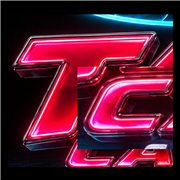
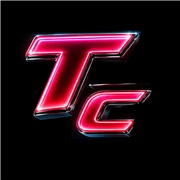
TC symbol: the real T and C cut from the Figma sign, placed as Carlos sketched

diff --git a/site/ride.html b/site/ride.html
@@ -23,11 +23,11 @@
 <link rel="preconnect" href="https://fonts.googleapis.com">
 <link rel="preconnect" href="https://fonts.gstatic.com" crossorigin>
 <link href="https://fonts.googleapis.com/css2?family=Oswald:wght@500;700&family=Great+Vibes&family=Inter:wght@400;500;600;700&display=swap" rel="stylesheet">
-<link rel="stylesheet" href="/assets/css/style.css?v=mw1u279e">
-<link rel="stylesheet" href="/assets/css/fx.css?v=mw1u279e">
-<link rel="stylesheet" href="/assets/css/app.css?v=mw1u279e">
-<link rel="stylesheet" href="/assets/css/members.css?v=mw1u279e">
-<link rel="stylesheet" href="/assets/css/light.css?v=mw1u279e">
+<link rel="stylesheet" href="/assets/css/style.css?v=mw1u5dvm">
+<link rel="stylesheet" href="/assets/css/fx.css?v=mw1u5dvm">
+<link rel="stylesheet" href="/assets/css/app.css?v=mw1u5dvm">
+<link rel="stylesheet" href="/assets/css/members.css?v=mw1u5dvm">
+<link rel="stylesheet" href="/assets/css/light.css?v=mw1u5dvm">
 <script>try{var q=new URLSearchParams(location.search).get('theme');if(q)localStorage.setItem('take_theme',q);if(localStorage.getItem('take_theme')==='light')document.documentElement.dataset.theme='light'}catch(e){}</script>
 <script type="application/ld+json">{"@context":"https://schema.org","@graph":[{"@type":"WebPage","@id":"https://take-canggu.pages.dev/ride","url":"https://take-canggu.pages.dev/ride","name":"Scooter Rental Canggu from Rp 85K a day | TAKE Scooter Rental Berawa","description":"Rent a Scoopy, Beat, Vario, NMAX, PCX, ADV or XMAX in Berawa, Canggu, from Rp 85K a day. Drivers for the airport, Ubud, Uluwatu and Mount Batur sunrise treks. Book online, confirm on WhatsApp.","about":{"@id":"https://take-canggu.pages.dev/ride#rental"},"inLanguage":"en"},{"@type":"AutoRental","@id":"https://take-canggu.pages.dev/ride#rental","name":"TAKE Scooter Rental","alternateName":"TAKE SCOOTER RENTAL","url":"https://take-canggu.pages.dev/ride","image":["https://take-canggu.pages.dev/assets/img/shop-side.jpg","https://take-canggu.pages.dev/assets/img/og-ride.jpg"],"telephone":["+6282240160894","+6282145954191","+6282191337592"],"address":{"@type":"PostalAddress","streetAddress":"Perum Prapta Canggu Asri Blok D No.1, Jl. Krisnantara 1, off Jl. Pantai Berawa","addressLocality":"Tibubeneng, Canggu","addressRegion":"Bali","addressCountry":"ID"},"geo":{"@type":"GeoCoordinates","latitude":-8.6481268,"longitude":115.1481513},"hasMap":"https://maps.google.com/?cid=2267207769960955668","openingHoursSpecification":{"@type":"OpeningHoursSpecification","dayOfWeek":["Monday","Tuesday","Wednesday","Thursday","Friday","Saturday","Sunday"],"opens":"07:00","closes":"20:00"},"priceRange":"Rp 85K a day and up","currenciesAccepted":"IDR","makesOffer":[{"@type":"Offer","name":"Honda Beat scooter rental","priceCurrency":"IDR","priceSpecification":{"@type":"UnitPriceSpecification","price":85000,"priceCurrency":"IDR","unitCode":"DAY","unitText":"per day"},"itemOffered":{"@type":"Product","name":"Honda Beat","description":"110cc automatic scooter"}},{"@type":"Offer","name":"Yamaha Gear scooter rental","priceCurrency":"IDR","priceSpecification":{"@type":"UnitPriceSpecification","price":85000,"priceCurrency":"IDR","unitCode":"DAY","unitText":"per day"},"itemOffered":{"@type":"Product","name":"Yamaha Gear","description":"125cc automatic scooter"}},{"@type":"Offer","name":"Honda Scoopy scooter rental","priceCurrency":"IDR","priceSpecification":{"@type":"UnitPriceSpecification","price":100000,"priceCurrency":"IDR","unitCode":"DAY","unitText":"per day"},"itemOffered":{"@type":"Product","name":"Honda Scoopy","description":"110cc automatic scooter"}},{"@type":"Offer","name":"Yamaha Fazzio scooter rental","priceCurrency":"IDR","priceSpecification":{"@type":"UnitPriceSpecification","price":100000,"priceCurrency":"IDR","unitCode":"DAY","unitText":"per day"},"itemOffered":{"@type":"Product","name":"Yamaha Fazzio","description":"125cc automatic scooter"}},{"@type":"Offer","name":"Honda Vario scooter rental","priceCurrency":"IDR","priceSpecification":{"@type":"UnitPriceSpecification","price":120000,"priceCurrency":"IDR","unitCode":"DAY","unitText":"per day"},"itemOffered":{"@type":"Product","name":"Honda Vario","description":"125cc automatic scooter"}},{"@type":"Offer","name":"Yamaha NMAX scooter rental","priceCurrency":"IDR","priceSpecification":{"@type":"UnitPriceSpecification","price":150000,"priceCurrency":"IDR","unitCode":"DAY","unitText":"per day"},"itemOffered":{"@type":"Product","name":"Yamaha NMAX","description":"155cc automatic scooter"}},{"@type":"Offer","name":"Honda PCX scooter rental","priceCurrency":"IDR","priceSpecification":{"@type":"UnitPriceSpecification","price":150000,"priceCurrency":"IDR","unitCode":"DAY","unitText":"per day"},"itemOffered":{"@type":"Product","name":"Honda PCX","description":"160cc automatic scooter"}},{"@type":"Offer","name":"Honda ADV scooter rental","priceCurrency":"IDR","priceSpecification":{"@type":"UnitPriceSpecification","price":175000,"priceCurrency":"IDR","unitCode":"DAY","unitText":"per day"},"itemOffered":{"@type":"Product","name":"Honda ADV","description":"160cc automatic scooter"}},{"@type":"Offer","name":"Yamaha XMAX scooter rental","priceCurrency":"IDR","priceSpecification":{"@type":"UnitPriceSpecification","price":300000,"priceCurrency":"IDR","unitCode":"DAY","unitText":"per day"},"itemOffered":{"@type":"Product","name":"Yamaha XMAX","description":"250cc automatic scooter"}}]},{"@type":"CafeOrCoffeeShop","@id":"https://take-canggu.pages.dev/#cafe","name":"TAKE Coffee & Eatery","alternateName":"Take Coffee Canggu","url":"https://take-canggu.pages.dev/","image":["https://take-canggu.pages.dev/assets/img/shop-front.jpg","https://take-canggu.pages.dev/assets/img/og-eat.jpg"],"telephone":"+6282191337592","address":{"@type":"PostalAddress","streetAddress":"Perum Prapta Canggu Asri Blok D No.1, Jl. Krisnantara 1, off Jl. Pantai Berawa","addressLocality":"Tibubeneng, Canggu","addressRegion":"Bali","addressCountry":"ID"},"geo":{"@type":"GeoCoordinates","latitude":-8.6481201,"longitude":115.1481354},"hasMap":"https://maps.google.com/?cid=11705024513808798293","openingHoursSpecification":{"@type":"OpeningHoursSpecification","dayOfWeek":["Monday","Tuesday","Wednesday","Thursday","Friday","Saturday","Sunday"],"opens":"07:00","closes":"20:00"},"servesCuisine":["Indonesian","Western","Coffee"],"priceRange":"Rp 6K to Rp 55K","currenciesAccepted":"IDR","hasMenu":{"@type":"Menu","name":"TAKE Coffee & Eatery menu","hasMenuSection":[{"@type":"MenuSection","name":"Breakfast","hasMenuItem":[{"@type":"MenuItem","name":"Easy Breakfast","offers":{"@type":"Offer","price":45000,"priceCurrency":"IDR"}},{"@type":"MenuItem","name":"Simple Breakfast","offers":{"@type":"Offer","price":50000,"priceCurrency":"IDR"}},{"@type":"MenuItem","name":"2 x 2 Breakfast","offers":{"@type":"Offer","price":25000,"priceCurrency":"IDR"}},{"@type":"MenuItem","name":"Fruit Platter","offers":{"@type":"Offer","price":40000,"priceCurrency":"IDR"}}]},{"@type":"MenuSection","name":"Local food","hasMenuItem":[{"@type":"MenuItem","name":"Nasi Goreng","offers":{"@type":"Offer","price":20000,"priceCurrency":"IDR"}},{"@type":"MenuItem","name":"Nasi Goreng Chicken","offers":{"@type":"Offer","price":25000,"priceCurrency":"IDR"}},{"@type":"MenuItem","name":"Mi Goreng","offers":{"@type":"Offer","price":20000,"priceCurrency":"IDR"}},{"@type":"MenuItem","name":"Mi Goreng Chicken","offers":{"@type":"Offer","price":25000,"priceCurrency":"IDR"}},{"@type":"MenuItem","name":"Sweet & Sour Chicken","offers":{"@type":"Offer","price":25000,"priceCurrency":"IDR"}},{"@type":"MenuItem","name":"Fuyung Hai","offers":{"@type":"Offer","price":20000,"priceCurrency":"IDR"}},{"@type":"MenuItem","name":"Cap Cay","offers":{"@type":"Offer","price":25000,"priceCurrency":"IDR"}},{"@type":"MenuItem","name":"Steamed Rice","offers":{"@type":"Offer","price":6000,"priceCurrency":"IDR"}}]},{"@type":"MenuSection","name":"Pizza","hasMenuItem":[{"@type":"MenuItem","name":"Meat Lover","offers":{"@type":"Offer","price":55000,"priceCurrency":"IDR"}},{"@type":"MenuItem","name":"Hawai","offers":{"@type":"Offer","price":50000,"priceCurrency":"IDR"}},{"@type":"MenuItem","name":"Vegetable","offers":{"@type":"Offer","price":45000,"priceCurrency":"IDR"}},{"@type":"MenuItem","name":"Margherita","offers":{"@type":"Offer","price":40000,"priceCurrency":"IDR"}}]},{"@type":"MenuSection","name":"Pasta","hasMenuItem":[{"@type":"MenuItem","name":"Bolognese","offers":{"@type":"Offer","price":45000,"priceCurrency":"IDR"}},{"@type":"MenuItem","name":"Carbonara","offers":{"@type":"Offer","price":50000,"priceCurrency":"IDR"}},{"@type":"MenuItem","name":"Aglio Olio","offers":{"@type":"Offer","price":40000,"priceCurrency":"IDR"}}]},{"@type":"MenuSection","name":"Small bites","hasMenuItem":[{"@type":"MenuItem","name":"French Fries","offers":{"@type":"Offer","price":20000,"priceCurrency":"IDR"}},{"@type":"MenuItem","name":"Chicken Nuggets","offers":{"@type":"Offer","price":20000,"priceCurrency":"IDR"}},{"@type":"MenuItem","name":"Grilled Sausage","offers":{"@type":"Offer","price":20000,"priceCurrency":"IDR"}},{"@type":"MenuItem","name":"Potato Wedges","offers":{"@type":"Offer","price":20000,"priceCurrency":"IDR"}},{"@type":"MenuItem","name":"Fried Tempeh","offers":{"@type":"Offer","price":20000,"priceCurrency":"IDR"}}]},{"@type":"MenuSection","name":"Coffee & drinks","hasMenuItem":[{"@type":"MenuItem","name":"Latte (hot or cold)","offers":{"@type":"Offer","price":20000,"priceCurrency":"IDR"}},{"@type":"MenuItem","name":"Cappuccino (hot or cold)","offers":{"@type":"Offer","price":20000,"priceCurrency":"IDR"}},{"@type":"MenuItem","name":"Bali Coffee","offers":{"@type":"Offer","price":10000,"priceCurrency":"IDR"}},{"@type":"MenuItem","name":"Nescafe","offers":{"@type":"Offer","price":10000,"priceCurrency":"IDR"}},{"@type":"MenuItem","name":"Tea (hot or cold)","offers":{"@type":"Offer","price":8000,"priceCurrency":"IDR"}},{"@type":"MenuItem","name":"Mineral Water","offers":{"@type":"Offer","price":8000,"priceCurrency":"IDR"}},{"@type":"MenuItem","name":"Sprite","offers":{"@type":"Offer","price":10000,"priceCurrency":"IDR"}},{"@type":"MenuItem","name":"Fanta","offers":{"@type":"Offer","price":10000,"priceCurrency":"IDR"}},{"@type":"MenuItem","name":"Coca Cola","offers":{"@type":"Offer","price":10000,"priceCurrency":"IDR"}}]},{"@type":"MenuSection","name":"Juices","hasMenuItem":[{"@type":"MenuItem","name":"Avocado Juice","offers":{"@type":"Offer","price":20000,"priceCurrency":"IDR"}},{"@type":"MenuItem","name":"Dragon Fruit Juice","offers":{"@type":"Offer","price":20000,"priceCurrency":"IDR"}},{"@type":"MenuItem","name":"Watermelon Juice","offers":{"@type":"Offer","price":15000,"priceCurrency":"IDR"}},{"@type":"MenuItem","name":"Pineapple Juice","offers":{"@type":"Offer","price":15000,"priceCurrency":"IDR"}},{"@type":"MenuItem","name":"Orange Juice","offers":{"@type":"Offer","price":15000,"priceCurrency":"IDR"}},{"@type":"MenuItem","name":"Young Coconut","offers":{"@type":"Offer","price":20000,"priceCurrency":"IDR"}},{"@type":"MenuItem","name":"Traditional Jamu","offers":{"@type":"Offer","price":35000,"priceCurrency":"IDR"}},{"@type":"MenuItem","name":"Natural Black Honey"}]},{"@type":"MenuSection","name":"Beer","hasMenuItem":[{"@type":"MenuItem","name":"Bintang Original","offers":{"@type":"Offer","price":35000,"priceCurrency":"IDR"}},{"@type":"MenuItem","name":"Bintang Radler","offers":{"@type":"Offer","price":35000,"priceCurrency":"IDR"}},{"@type":"MenuItem","name":"Bintang Crystal","offers":{"@type":"Offer","price":35000,"priceCurrency":"IDR"}}]}]}},{"@type":"FAQPage","mainEntity":[{"@type":"Question","name":"Where is TAKE in Canggu?","acceptedAnswer":{"@type":"Answer","text":"In Perum Prapta Canggu Asri, Blok D No.1, on Jl. Krisnantara 1, a quiet lane off Jalan Pantai Berawa in Tibubeneng. TAKE Coffee and TAKE Scooter Rental share the white house with the two signs."}},{"@type":"Question","name":"What are the opening hours?","acceptedAnswer":{"@type":"Answer","text":"Every day from 7am to 8pm, for the kitchen and the rental desk."}},{"@type":"Question","name":"Do you deliver food?","acceptedAnswer":{"@type":"Answer","text":"Yes. Order on this page and choose delivery, or WhatsApp the kitchen on 0821 9133 7592."}},{"@type":"Question","name":"How much is a scooter a day?","acceptedAnswer":{"@type":"Answer","text":"From Rp 85K a day: Honda Beat 85K, Yamaha Gear 85K, Honda Scoopy 100K, Yamaha Fazzio 100K, Honda Vario 120K, Yamaha NMAX 150K, Honda PCX 150K, Honda ADV 175K, Yamaha XMAX 300K."}},{"@type":"Question","name":"How do I book a scooter?","acceptedAnswer":{"@type":"Answer","text":"Choose a model and your dates on the scooter page and send the request. We confirm the bike and the price on WhatsApp, then you pick it up at the shop."}},{"@type":"Question","name":"How do I pay?","acceptedAnswer":{"@type":"Answer","text":"Online payment is coming soon. For now we confirm your scooter booking on WhatsApp and you pay at the shop; food is paid at the counter."}},{"@type":"Question","name":"How do TAKE Points work?","acceptedAnswer":{"@type":"Answer","text":"Sign in as a member with your email. You get 1 point for every Rp 10K you pay on food and scooter rentals, and 100 points take Rp 25K off your next order or rental."}},{"@type":"Question","name":"Do you have drivers and tours?","acceptedAnswer":{"@type":"Answer","text":"Yes: Airport transfer, Sanur, Ubud, Nusa Dua, Uluwatu, Tanah Lot, Candi Dasa, Padang Bay, Trekking Mount Batur, Trekking Mount Agung, Full day tour. Send a request with the date and pick-up place."}}]}]}</script>
 </head>
@@ -339,15 +339,15 @@
   <a class="chat-human" id="chatHuman" href="https://wa.me/6282240160894" target="_blank" rel="noopener"><svg viewBox="0 0 24 24" aria-hidden="true"><path d="M12 3C6.9 3 3 6.6 3 11.1c0 2.5 1.2 4.7 3.2 6.2L5.5 21l3.9-2.1c.8.2 1.7.3 2.6.3 5.1 0 9-3.6 9-8.1S17.1 3 12 3Z" fill="none" stroke="currentColor" stroke-width="1.8" stroke-linejoin="round"/></svg><span>Talk to a person on WhatsApp</span></a>
 </div>
 <button class="cart-fab only-eat" id="cartFab" type="button" hidden>Order <b id="cartCount">0</b> · <span id="cartTotal"></span></button>
-<script src="/assets/js/data.js?v=mw1u279e"></script>
-<script src="/assets/js/main.js?v=mw1u279e"></script>
-<script src="/assets/js/member.js?v=mw1u279e"></script>
-<script src="/assets/js/book.js?v=mw1u279e"></script>
-<script src="/assets/js/chat.js?v=mw1u279e"></script>
-<script src="/assets/js/zoom.js?v=mw1u279e"></script>
-<script src="/assets/js/theme.js?v=mw1u279e"></script>
+<script src="/assets/js/data.js?v=mw1u5dvm"></script>
+<script src="/assets/js/main.js?v=mw1u5dvm"></script>
+<script src="/assets/js/member.js?v=mw1u5dvm"></script>
+<script src="/assets/js/book.js?v=mw1u5dvm"></script>
+<script src="/assets/js/chat.js?v=mw1u5dvm"></script>
+<script src="/assets/js/zoom.js?v=mw1u5dvm"></script>
+<script src="/assets/js/theme.js?v=mw1u5dvm"></script>
 <script src="/i18n.js" defer></script>
-<script src="/assets/js/space.js?v=mw1u279e"></script>
-<script src="/assets/js/fx.js?v=mw1u279e"></script>
+<script src="/assets/js/space.js?v=mw1u5dvm"></script>
+<script src="/assets/js/fx.js?v=mw1u5dvm"></script>
 </body>
 </html>

diff --git a/site/index.html b/site/index.html
@@ -23,11 +23,11 @@
 <link rel="preconnect" href="https://fonts.googleapis.com">
 <link rel="preconnect" href="https://fonts.gstatic.com" crossorigin>
 <link href="https://fonts.googleapis.com/css2?family=Oswald:wght@500;700&family=Great+Vibes&family=Inter:wght@400;500;600;700&display=swap" rel="stylesheet">
-<link rel="stylesheet" href="/assets/css/style.css?v=mw1u279e">
-<link rel="stylesheet" href="/assets/css/fx.css?v=mw1u279e">
-<link rel="stylesheet" href="/assets/css/app.css?v=mw1u279e">
-<link rel="stylesheet" href="/assets/css/members.css?v=mw1u279e">
-<link rel="stylesheet" href="/assets/css/light.css?v=mw1u279e">
+<link rel="stylesheet" href="/assets/css/style.css?v=mw1u5dvm">
+<link rel="stylesheet" href="/assets/css/fx.css?v=mw1u5dvm">
+<link rel="stylesheet" href="/assets/css/app.css?v=mw1u5dvm">
+<link rel="stylesheet" href="/assets/css/members.css?v=mw1u5dvm">
+<link rel="stylesheet" href="/assets/css/light.css?v=mw1u5dvm">
 <script>try{var q=new URLSearchParams(location.search).get('theme');if(q)localStorage.setItem('take_theme',q);if(localStorage.getItem('take_theme')==='light')document.documentElement.dataset.theme='light'}catch(e){}</script>
 <script type="application/ld+json">{"@context":"https://schema.org","@graph":[{"@type":"WebPage","@id":"https://take-canggu.pages.dev/","url":"https://take-canggu.pages.dev/","name":"TAKE Coffee Canggu | Cafe & Restaurant in Berawa, Bali","description":"TAKE Coffee & Eatery on Jl. Pantai Berawa, Canggu: coffee, nasi goreng and mi goreng from Rp 20K, pizza, pasta, breakfasts, coffee and fresh juice. Eat in, pick up or order delivery. Open every day, 7am to 8pm.","about":{"@id":"https://take-canggu.pages.dev/#cafe"},"inLanguage":"en"},{"@type":"CafeOrCoffeeShop","@id":"https://take-canggu.pages.dev/#cafe","name":"TAKE Coffee & Eatery","alternateName":"Take Coffee Canggu","url":"https://take-canggu.pages.dev/","image":["https://take-canggu.pages.dev/assets/img/shop-front.jpg","https://take-canggu.pages.dev/assets/img/og-eat.jpg"],"telephone":"+6282191337592","address":{"@type":"PostalAddress","streetAddress":"Perum Prapta Canggu Asri Blok D No.1, Jl. Krisnantara 1, off Jl. Pantai Berawa","addressLocality":"Tibubeneng, Canggu","addressRegion":"Bali","addressCountry":"ID"},"geo":{"@type":"GeoCoordinates","latitude":-8.6481201,"longitude":115.1481354},"hasMap":"https://maps.google.com/?cid=11705024513808798293","openingHoursSpecification":{"@type":"OpeningHoursSpecification","dayOfWeek":["Monday","Tuesday","Wednesday","Thursday","Friday","Saturday","Sunday"],"opens":"07:00","closes":"20:00"},"servesCuisine":["Indonesian","Western","Coffee"],"priceRange":"Rp 6K to Rp 55K","currenciesAccepted":"IDR","hasMenu":{"@type":"Menu","name":"TAKE Coffee & Eatery menu","hasMenuSection":[{"@type":"MenuSection","name":"Breakfast","hasMenuItem":[{"@type":"MenuItem","name":"Easy Breakfast","offers":{"@type":"Offer","price":45000,"priceCurrency":"IDR"}},{"@type":"MenuItem","name":"Simple Breakfast","offers":{"@type":"Offer","price":50000,"priceCurrency":"IDR"}},{"@type":"MenuItem","name":"2 x 2 Breakfast","offers":{"@type":"Offer","price":25000,"priceCurrency":"IDR"}},{"@type":"MenuItem","name":"Fruit Platter","offers":{"@type":"Offer","price":40000,"priceCurrency":"IDR"}}]},{"@type":"MenuSection","name":"Local food","hasMenuItem":[{"@type":"MenuItem","name":"Nasi Goreng","offers":{"@type":"Offer","price":20000,"priceCurrency":"IDR"}},{"@type":"MenuItem","name":"Nasi Goreng Chicken","offers":{"@type":"Offer","price":25000,"priceCurrency":"IDR"}},{"@type":"MenuItem","name":"Mi Goreng","offers":{"@type":"Offer","price":20000,"priceCurrency":"IDR"}},{"@type":"MenuItem","name":"Mi Goreng Chicken","offers":{"@type":"Offer","price":25000,"priceCurrency":"IDR"}},{"@type":"MenuItem","name":"Sweet & Sour Chicken","offers":{"@type":"Offer","price":25000,"priceCurrency":"IDR"}},{"@type":"MenuItem","name":"Fuyung Hai","offers":{"@type":"Offer","price":20000,"priceCurrency":"IDR"}},{"@type":"MenuItem","name":"Cap Cay","offers":{"@type":"Offer","price":25000,"priceCurrency":"IDR"}},{"@type":"MenuItem","name":"Steamed Rice","offers":{"@type":"Offer","price":6000,"priceCurrency":"IDR"}}]},{"@type":"MenuSection","name":"Pizza","hasMenuItem":[{"@type":"MenuItem","name":"Meat Lover","offers":{"@type":"Offer","price":55000,"priceCurrency":"IDR"}},{"@type":"MenuItem","name":"Hawai","offers":{"@type":"Offer","price":50000,"priceCurrency":"IDR"}},{"@type":"MenuItem","name":"Vegetable","offers":{"@type":"Offer","price":45000,"priceCurrency":"IDR"}},{"@type":"MenuItem","name":"Margherita","offers":{"@type":"Offer","price":40000,"priceCurrency":"IDR"}}]},{"@type":"MenuSection","name":"Pasta","hasMenuItem":[{"@type":"MenuItem","name":"Bolognese","offers":{"@type":"Offer","price":45000,"priceCurrency":"IDR"}},{"@type":"MenuItem","name":"Carbonara","offers":{"@type":"Offer","price":50000,"priceCurrency":"IDR"}},{"@type":"MenuItem","name":"Aglio Olio","offers":{"@type":"Offer","price":40000,"priceCurrency":"IDR"}}]},{"@type":"MenuSection","name":"Small bites","hasMenuItem":[{"@type":"MenuItem","name":"French Fries","offers":{"@type":"Offer","price":20000,"priceCurrency":"IDR"}},{"@type":"MenuItem","name":"Chicken Nuggets","offers":{"@type":"Offer","price":20000,"priceCurrency":"IDR"}},{"@type":"MenuItem","name":"Grilled Sausage","offers":{"@type":"Offer","price":20000,"priceCurrency":"IDR"}},{"@type":"MenuItem","name":"Potato Wedges","offers":{"@type":"Offer","price":20000,"priceCurrency":"IDR"}},{"@type":"MenuItem","name":"Fried Tempeh","offers":{"@type":"Offer","price":20000,"priceCurrency":"IDR"}}]},{"@type":"MenuSection","name":"Coffee & drinks","hasMenuItem":[{"@type":"MenuItem","name":"Latte (hot or cold)","offers":{"@type":"Offer","price":20000,"priceCurrency":"IDR"}},{"@type":"MenuItem","name":"Cappuccino (hot or cold)","offers":{"@type":"Offer","price":20000,"priceCurrency":"IDR"}},{"@type":"MenuItem","name":"Bali Coffee","offers":{"@type":"Offer","price":10000,"priceCurrency":"IDR"}},{"@type":"MenuItem","name":"Nescafe","offers":{"@type":"Offer","price":10000,"priceCurrency":"IDR"}},{"@type":"MenuItem","name":"Tea (hot or cold)","offers":{"@type":"Offer","price":8000,"priceCurrency":"IDR"}},{"@type":"MenuItem","name":"Mineral Water","offers":{"@type":"Offer","price":8000,"priceCurrency":"IDR"}},{"@type":"MenuItem","name":"Sprite","offers":{"@type":"Offer","price":10000,"priceCurrency":"IDR"}},{"@type":"MenuItem","name":"Fanta","offers":{"@type":"Offer","price":10000,"priceCurrency":"IDR"}},{"@type":"MenuItem","name":"Coca Cola","offers":{"@type":"Offer","price":10000,"priceCurrency":"IDR"}}]},{"@type":"MenuSection","name":"Juices","hasMenuItem":[{"@type":"MenuItem","name":"Avocado Juice","offers":{"@type":"Offer","price":20000,"priceCurrency":"IDR"}},{"@type":"MenuItem","name":"Dragon Fruit Juice","offers":{"@type":"Offer","price":20000,"priceCurrency":"IDR"}},{"@type":"MenuItem","name":"Watermelon Juice","offers":{"@type":"Offer","price":15000,"priceCurrency":"IDR"}},{"@type":"MenuItem","name":"Pineapple Juice","offers":{"@type":"Offer","price":15000,"priceCurrency":"IDR"}},{"@type":"MenuItem","name":"Orange Juice","offers":{"@type":"Offer","price":15000,"priceCurrency":"IDR"}},{"@type":"MenuItem","name":"Young Coconut","offers":{"@type":"Offer","price":20000,"priceCurrency":"IDR"}},{"@type":"MenuItem","name":"Traditional Jamu","offers":{"@type":"Offer","price":35000,"priceCurrency":"IDR"}},{"@type":"MenuItem","name":"Natural Black Honey"}]},{"@type":"MenuSection","name":"Beer","hasMenuItem":[{"@type":"MenuItem","name":"Bintang Original","offers":{"@type":"Offer","price":35000,"priceCurrency":"IDR"}},{"@type":"MenuItem","name":"Bintang Radler","offers":{"@type":"Offer","price":35000,"priceCurrency":"IDR"}},{"@type":"MenuItem","name":"Bintang Crystal","offers":{"@type":"Offer","price":35000,"priceCurrency":"IDR"}}]}]}},{"@type":"AutoRental","@id":"https://take-canggu.pages.dev/ride#rental","name":"TAKE Scooter Rental","alternateName":"TAKE SCOOTER RENTAL","url":"https://take-canggu.pages.dev/ride","image":["https://take-canggu.pages.dev/assets/img/shop-side.jpg","https://take-canggu.pages.dev/assets/img/og-ride.jpg"],"telephone":["+6282240160894","+6282145954191","+6282191337592"],"address":{"@type":"PostalAddress","streetAddress":"Perum Prapta Canggu Asri Blok D No.1, Jl. Krisnantara 1, off Jl. Pantai Berawa","addressLocality":"Tibubeneng, Canggu","addressRegion":"Bali","addressCountry":"ID"},"geo":{"@type":"GeoCoordinates","latitude":-8.6481268,"longitude":115.1481513},"hasMap":"https://maps.google.com/?cid=2267207769960955668","openingHoursSpecification":{"@type":"OpeningHoursSpecification","dayOfWeek":["Monday","Tuesday","Wednesday","Thursday","Friday","Saturday","Sunday"],"opens":"07:00","closes":"20:00"},"priceRange":"Rp 85K a day and up","currenciesAccepted":"IDR","makesOffer":[{"@type":"Offer","name":"Honda Beat scooter rental","priceCurrency":"IDR","priceSpecification":{"@type":"UnitPriceSpecification","price":85000,"priceCurrency":"IDR","unitCode":"DAY","unitText":"per day"},"itemOffered":{"@type":"Product","name":"Honda Beat","description":"110cc automatic scooter"}},{"@type":"Offer","name":"Yamaha Gear scooter rental","priceCurrency":"IDR","priceSpecification":{"@type":"UnitPriceSpecification","price":85000,"priceCurrency":"IDR","unitCode":"DAY","unitText":"per day"},"itemOffered":{"@type":"Product","name":"Yamaha Gear","description":"125cc automatic scooter"}},{"@type":"Offer","name":"Honda Scoopy scooter rental","priceCurrency":"IDR","priceSpecification":{"@type":"UnitPriceSpecification","price":100000,"priceCurrency":"IDR","unitCode":"DAY","unitText":"per day"},"itemOffered":{"@type":"Product","name":"Honda Scoopy","description":"110cc automatic scooter"}},{"@type":"Offer","name":"Yamaha Fazzio scooter rental","priceCurrency":"IDR","priceSpecification":{"@type":"UnitPriceSpecification","price":100000,"priceCurrency":"IDR","unitCode":"DAY","unitText":"per day"},"itemOffered":{"@type":"Product","name":"Yamaha Fazzio","description":"125cc automatic scooter"}},{"@type":"Offer","name":"Honda Vario scooter rental","priceCurrency":"IDR","priceSpecification":{"@type":"UnitPriceSpecification","price":120000,"priceCurrency":"IDR","unitCode":"DAY","unitText":"per day"},"itemOffered":{"@type":"Product","name":"Honda Vario","description":"125cc automatic scooter"}},{"@type":"Offer","name":"Yamaha NMAX scooter rental","priceCurrency":"IDR","priceSpecification":{"@type":"UnitPriceSpecification","price":150000,"priceCurrency":"IDR","unitCode":"DAY","unitText":"per day"},"itemOffered":{"@type":"Product","name":"Yamaha NMAX","description":"155cc automatic scooter"}},{"@type":"Offer","name":"Honda PCX scooter rental","priceCurrency":"IDR","priceSpecification":{"@type":"UnitPriceSpecification","price":150000,"priceCurrency":"IDR","unitCode":"DAY","unitText":"per day"},"itemOffered":{"@type":"Product","name":"Honda PCX","description":"160cc automatic scooter"}},{"@type":"Offer","name":"Honda ADV scooter rental","priceCurrency":"IDR","priceSpecification":{"@type":"UnitPriceSpecification","price":175000,"priceCurrency":"IDR","unitCode":"DAY","unitText":"per day"},"itemOffered":{"@type":"Product","name":"Honda ADV","description":"160cc automatic scooter"}},{"@type":"Offer","name":"Yamaha XMAX scooter rental","priceCurrency":"IDR","priceSpecification":{"@type":"UnitPriceSpecification","price":300000,"priceCurrency":"IDR","unitCode":"DAY","unitText":"per day"},"itemOffered":{"@type":"Product","name":"Yamaha XMAX","description":"250cc automatic scooter"}}]},{"@type":"FAQPage","mainEntity":[{"@type":"Question","name":"Where is TAKE in Canggu?","acceptedAnswer":{"@type":"Answer","text":"In Perum Prapta Canggu Asri, Blok D No.1, on Jl. Krisnantara 1, a quiet lane off Jalan Pantai Berawa in Tibubeneng. TAKE Coffee and TAKE Scooter Rental share the white house with the two signs."}},{"@type":"Question","name":"What are the opening hours?","acceptedAnswer":{"@type":"Answer","text":"Every day from 7am to 8pm, for the kitchen and the rental desk."}},{"@type":"Question","name":"Do you deliver food?","acceptedAnswer":{"@type":"Answer","text":"Yes. Order on this page and choose delivery, or WhatsApp the kitchen on 0821 9133 7592."}},{"@type":"Question","name":"How much is a scooter a day?","acceptedAnswer":{"@type":"Answer","text":"From Rp 85K a day: Honda Beat 85K, Yamaha Gear 85K, Honda Scoopy 100K, Yamaha Fazzio 100K, Honda Vario 120K, Yamaha NMAX 150K, Honda PCX 150K, Honda ADV 175K, Yamaha XMAX 300K."}},{"@type":"Question","name":"How do I book a scooter?","acceptedAnswer":{"@type":"Answer","text":"Choose a model and your dates on the scooter page and send the request. We confirm the bike and the price on WhatsApp, then you pick it up at the shop."}},{"@type":"Question","name":"How do I pay?","acceptedAnswer":{"@type":"Answer","text":"Online payment is coming soon. For now we confirm your scooter booking on WhatsApp and you pay at the shop; food is paid at the counter."}},{"@type":"Question","name":"How do TAKE Points work?","acceptedAnswer":{"@type":"Answer","text":"Sign in as a member with your email. You get 1 point for every Rp 10K you pay on food and scooter rentals, and 100 points take Rp 25K off your next order or rental."}},{"@type":"Question","name":"Do you have drivers and tours?","acceptedAnswer":{"@type":"Answer","text":"Yes: Airport transfer, Sanur, Ubud, Nusa Dua, Uluwatu, Tanah Lot, Candi Dasa, Padang Bay, Trekking Mount Batur, Trekking Mount Agung, Full day tour. Send a request with the date and pick-up place."}}]}]}</script>
 </head>
@@ -339,15 +339,15 @@
   <a class="chat-human" id="chatHuman" href="https://wa.me/6282191337592" target="_blank" rel="noopener"><svg viewBox="0 0 24 24" aria-hidden="true"><path d="M12 3C6.9 3 3 6.6 3 11.1c0 2.5 1.2 4.7 3.2 6.2L5.5 21l3.9-2.1c.8.2 1.7.3 2.6.3 5.1 0 9-3.6 9-8.1S17.1 3 12 3Z" fill="none" stroke="currentColor" stroke-width="1.8" stroke-linejoin="round"/></svg><span>Talk to a person on WhatsApp</span></a>
 </div>
 <button class="cart-fab only-eat" id="cartFab" type="button" hidden>Order <b id="cartCount">0</b> · <span id="cartTotal"></span></button>
-<script src="/assets/js/data.js?v=mw1u279e"></script>
-<script src="/assets/js/main.js?v=mw1u279e"></script>
-<script src="/assets/js/member.js?v=mw1u279e"></script>
-<script src="/assets/js/book.js?v=mw1u279e"></script>
-<script src="/assets/js/chat.js?v=mw1u279e"></script>
-<script src="/assets/js/zoom.js?v=mw1u279e"></script>
-<script src="/assets/js/theme.js?v=mw1u279e"></script>
+<script src="/assets/js/data.js?v=mw1u5dvm"></script>
+<script src="/assets/js/main.js?v=mw1u5dvm"></script>
+<script src="/assets/js/member.js?v=mw1u5dvm"></script>
+<script src="/assets/js/book.js?v=mw1u5dvm"></script>
+<script src="/assets/js/chat.js?v=mw1u5dvm"></script>
+<script src="/assets/js/zoom.js?v=mw1u5dvm"></script>
+<script src="/assets/js/theme.js?v=mw1u5dvm"></script>
 <script src="/i18n.js" defer></script>
-<script src="/assets/js/space.js?v=mw1u279e"></script>
-<script src="/assets/js/fx.js?v=mw1u279e"></script>
+<script src="/assets/js/space.js?v=mw1u5dvm"></script>
+<script src="/assets/js/fx.js?v=mw1u5dvm"></script>
 </body>
 </html>

diff --git a/site/terms.html b/site/terms.html
@@ -23,11 +23,11 @@
 <link rel="preconnect" href="https://fonts.googleapis.com">
 <link rel="preconnect" href="https://fonts.gstatic.com" crossorigin>
 <link href="https://fonts.googleapis.com/css2?family=Oswald:wght@500;700&family=Great+Vibes&family=Inter:wght@400;500;600;700&display=swap" rel="stylesheet">
-<link rel="stylesheet" href="/assets/css/style.css?v=mw1u279e">
-<link rel="stylesheet" href="/assets/css/fx.css?v=mw1u279e">
-<link rel="stylesheet" href="/assets/css/app.css?v=mw1u279e">
-<link rel="stylesheet" href="/assets/css/members.css?v=mw1u279e">
-<link rel="stylesheet" href="/assets/css/light.css?v=mw1u279e">
+<link rel="stylesheet" href="/assets/css/style.css?v=mw1u5dvm">
+<link rel="stylesheet" href="/assets/css/fx.css?v=mw1u5dvm">
+<link rel="stylesheet" href="/assets/css/app.css?v=mw1u5dvm">
+<link rel="stylesheet" href="/assets/css/members.css?v=mw1u5dvm">
+<link rel="stylesheet" href="/assets/css/light.css?v=mw1u5dvm">
 <script>try{var q=new URLSearchParams(location.search).get('theme');if(q)localStorage.setItem('take_theme',q);if(localStorage.getItem('take_theme')==='light')document.documentElement.dataset.theme='light'}catch(e){}</script>
 <script type="application/ld+json">{"@context":"https://schema.org","@graph":[{"@type":"WebPage","@id":"https://take-canggu.pages.dev/terms","url":"https://take-canggu.pages.dev/terms","name":"Scooter rental terms | TAKE Scooter Rental Canggu","description":"Rental terms for TAKE Scooter Rental in Berawa, Canggu: who can rent, licence and documents, payment in advance, pick-up and return, damage, accidents and cancellations.","about":{"@id":"https://take-canggu.pages.dev/ride#rental"},"inLanguage":"en"},{"@type":"AutoRental","@id":"https://take-canggu.pages.dev/ride#rental","name":"TAKE Scooter Rental","alternateName":"TAKE SCOOTER RENTAL","url":"https://take-canggu.pages.dev/ride","image":["https://take-canggu.pages.dev/assets/img/shop-side.jpg","https://take-canggu.pages.dev/assets/img/og-ride.jpg"],"telephone":["+6282240160894","+6282145954191","+6282191337592"],"address":{"@type":"PostalAddress","streetAddress":"Perum Prapta Canggu Asri Blok D No.1, Jl. Krisnantara 1, off Jl. Pantai Berawa","addressLocality":"Tibubeneng, Canggu","addressRegion":"Bali","addressCountry":"ID"},"geo":{"@type":"GeoCoordinates","latitude":-8.6481268,"longitude":115.1481513},"hasMap":"https://maps.google.com/?cid=2267207769960955668","openingHoursSpecification":{"@type":"OpeningHoursSpecification","dayOfWeek":["Monday","Tuesday","Wednesday","Thursday","Friday","Saturday","Sunday"],"opens":"07:00","closes":"20:00"},"priceRange":"Rp 85K a day and up","currenciesAccepted":"IDR","makesOffer":[{"@type":"Offer","name":"Honda Beat scooter rental","priceCurrency":"IDR","priceSpecification":{"@type":"UnitPriceSpecification","price":85000,"priceCurrency":"IDR","unitCode":"DAY","unitText":"per day"},"itemOffered":{"@type":"Product","name":"Honda Beat","description":"110cc automatic scooter"}},{"@type":"Offer","name":"Yamaha Gear scooter rental","priceCurrency":"IDR","priceSpecification":{"@type":"UnitPriceSpecification","price":85000,"priceCurrency":"IDR","unitCode":"DAY","unitText":"per day"},"itemOffered":{"@type":"Product","name":"Yamaha Gear","description":"125cc automatic scooter"}},{"@type":"Offer","name":"Honda Scoopy scooter rental","priceCurrency":"IDR","priceSpecification":{"@type":"UnitPriceSpecification","price":100000,"priceCurrency":"IDR","unitCode":"DAY","unitText":"per day"},"itemOffered":{"@type":"Product","name":"Honda Scoopy","description":"110cc automatic scooter"}},{"@type":"Offer","name":"Yamaha Fazzio scooter rental","priceCurrency":"IDR","priceSpecification":{"@type":"UnitPriceSpecification","price":100000,"priceCurrency":"IDR","unitCode":"DAY","unitText":"per day"},"itemOffered":{"@type":"Product","name":"Yamaha Fazzio","description":"125cc automatic scooter"}},{"@type":"Offer","name":"Honda Vario scooter rental","priceCurrency":"IDR","priceSpecification":{"@type":"UnitPriceSpecification","price":120000,"priceCurrency":"IDR","unitCode":"DAY","unitText":"per day"},"itemOffered":{"@type":"Product","name":"Honda Vario","description":"125cc automatic scooter"}},{"@type":"Offer","name":"Yamaha NMAX scooter rental","priceCurrency":"IDR","priceSpecification":{"@type":"UnitPriceSpecification","price":150000,"priceCurrency":"IDR","unitCode":"DAY","unitText":"per day"},"itemOffered":{"@type":"Product","name":"Yamaha NMAX","description":"155cc automatic scooter"}},{"@type":"Offer","name":"Honda PCX scooter rental","priceCurrency":"IDR","priceSpecification":{"@type":"UnitPriceSpecification","price":150000,"priceCurrency":"IDR","unitCode":"DAY","unitText":"per day"},"itemOffered":{"@type":"Product","name":"Honda PCX","description":"160cc automatic scooter"}},{"@type":"Offer","name":"Honda ADV scooter rental","priceCurrency":"IDR","priceSpecification":{"@type":"UnitPriceSpecification","price":175000,"priceCurrency":"IDR","unitCode":"DAY","unitText":"per day"},"itemOffered":{"@type":"Product","name":"Honda ADV","description":"160cc automatic scooter"}},{"@type":"Offer","name":"Yamaha XMAX scooter rental","priceCurrency":"IDR","priceSpecification":{"@type":"UnitPriceSpecification","price":300000,"priceCurrency":"IDR","unitCode":"DAY","unitText":"per day"},"itemOffered":{"@type":"Product","name":"Yamaha XMAX","description":"250cc automatic scooter"}}]}]}</script>
 </head>
@@ -133,15 +133,15 @@
   <a class="chat-human" id="chatHuman" href="https://wa.me/6282240160894" target="_blank" rel="noopener"><svg viewBox="0 0 24 24" aria-hidden="true"><path d="M12 3C6.9 3 3 6.6 3 11.1c0 2.5 1.2 4.7 3.2 6.2L5.5 21l3.9-2.1c.8.2 1.7.3 2.6.3 5.1 0 9-3.6 9-8.1S17.1 3 12 3Z" fill="none" stroke="currentColor" stroke-width="1.8" stroke-linejoin="round"/></svg><span>Talk to a person on WhatsApp</span></a>
 </div>
 <button class="cart-fab only-eat" id="cartFab" type="button" hidden>Order <b id="cartCount">0</b> · <span id="cartTotal"></span></button>
-<script src="/assets/js/data.js?v=mw1u279e"></script>
-<script src="/assets/js/main.js?v=mw1u279e"></script>
-<script src="/assets/js/member.js?v=mw1u279e"></script>
-<script src="/assets/js/book.js?v=mw1u279e"></script>
-<script src="/assets/js/chat.js?v=mw1u279e"></script>
-<script src="/assets/js/zoom.js?v=mw1u279e"></script>
-<script src="/assets/js/theme.js?v=mw1u279e"></script>
+<script src="/assets/js/data.js?v=mw1u5dvm"></script>
+<script src="/assets/js/main.js?v=mw1u5dvm"></script>
+<script src="/assets/js/member.js?v=mw1u5dvm"></script>
+<script src="/assets/js/book.js?v=mw1u5dvm"></script>
+<script src="/assets/js/chat.js?v=mw1u5dvm"></script>
+<script src="/assets/js/zoom.js?v=mw1u5dvm"></script>
+<script src="/assets/js/theme.js?v=mw1u5dvm"></script>
 <script src="/i18n.js" defer></script>
-<script src="/assets/js/space.js?v=mw1u279e"></script>
-<script src="/assets/js/fx.js?v=mw1u279e"></script>
+<script src="/assets/js/space.js?v=mw1u5dvm"></script>
+<script src="/assets/js/fx.js?v=mw1u5dvm"></script>
 </body>
 </html>

diff --git a/site/staff.html b/site/staff.html
@@ -6,7 +6,7 @@
 <link rel="apple-touch-icon" href="/assets/img/tc-180.png">
 <link href="https://fonts.googleapis.com/css2?family=Oswald:wght@500;700&family=Inter:wght@400;500;600;700&display=swap" rel="stylesheet">
 <link rel="stylesheet" href="https://cdnjs.cloudflare.com/ajax/libs/leaflet/1.9.4/leaflet.min.css">
-<link rel="stylesheet" href="/assets/css/style.css?v=mw1u279e"><link rel="stylesheet" href="/assets/css/app.css?v=mw1u279e">
+<link rel="stylesheet" href="/assets/css/style.css?v=mw1u5dvm"><link rel="stylesheet" href="/assets/css/app.css?v=mw1u5dvm">
 </head><body class="page-staff">
 <div class="login" id="login">
   <form class="card form" id="loginForm">
@@ -69,5 +69,5 @@
 <div class="dlg" id="dlg" hidden><form class="card form" id="dlgForm"></form></div>
 
 <script src="https://cdnjs.cloudflare.com/ajax/libs/leaflet/1.9.4/leaflet.min.js"></script>
-<script src="/assets/js/data.js?v=mw1u279e"></script><script src="/assets/js/staff.js?v=mw1u279e"></script>
+<script src="/assets/js/data.js?v=mw1u5dvm"></script><script src="/assets/js/staff.js?v=mw1u5dvm"></script>
 </body></html>
